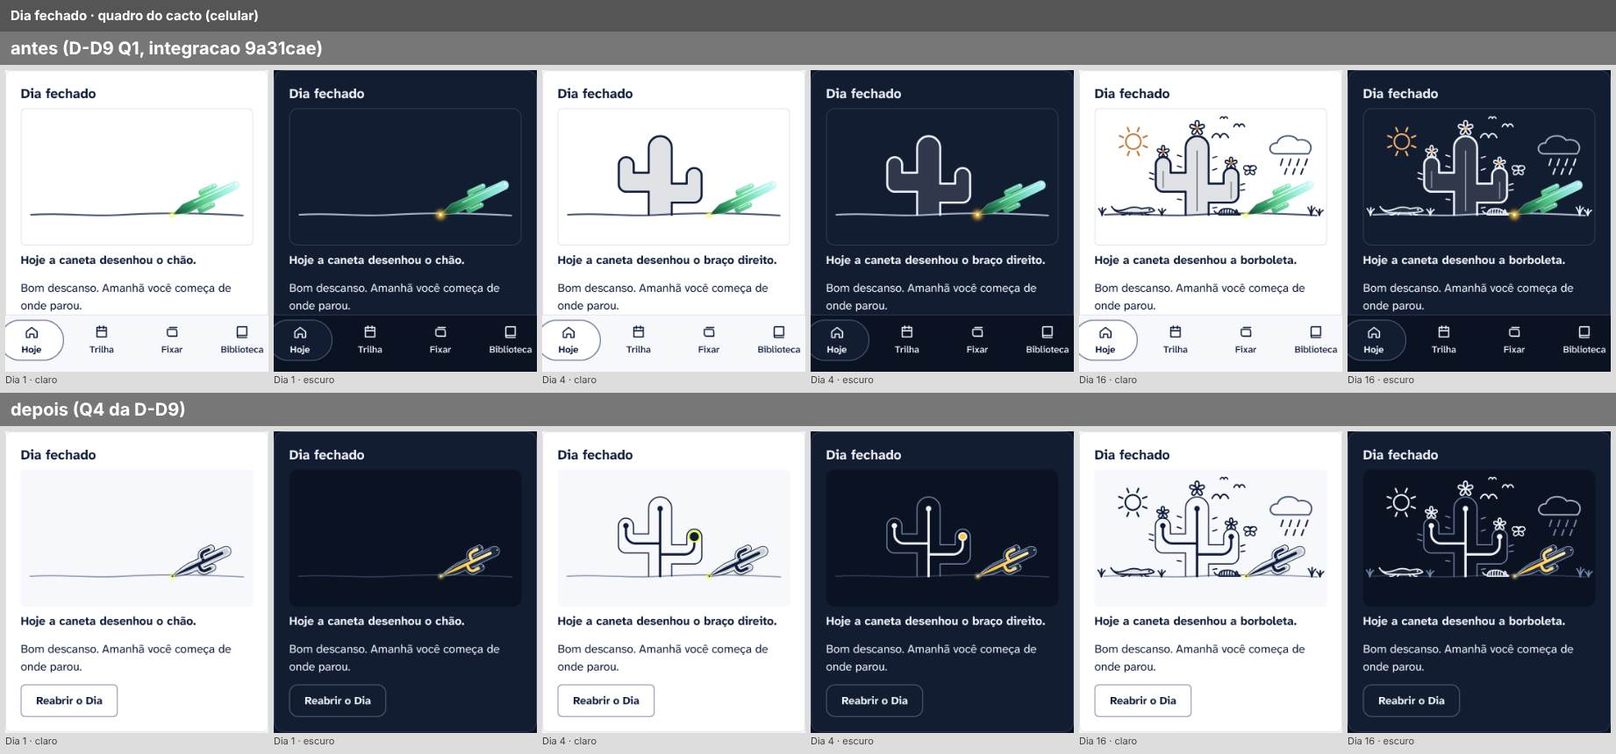
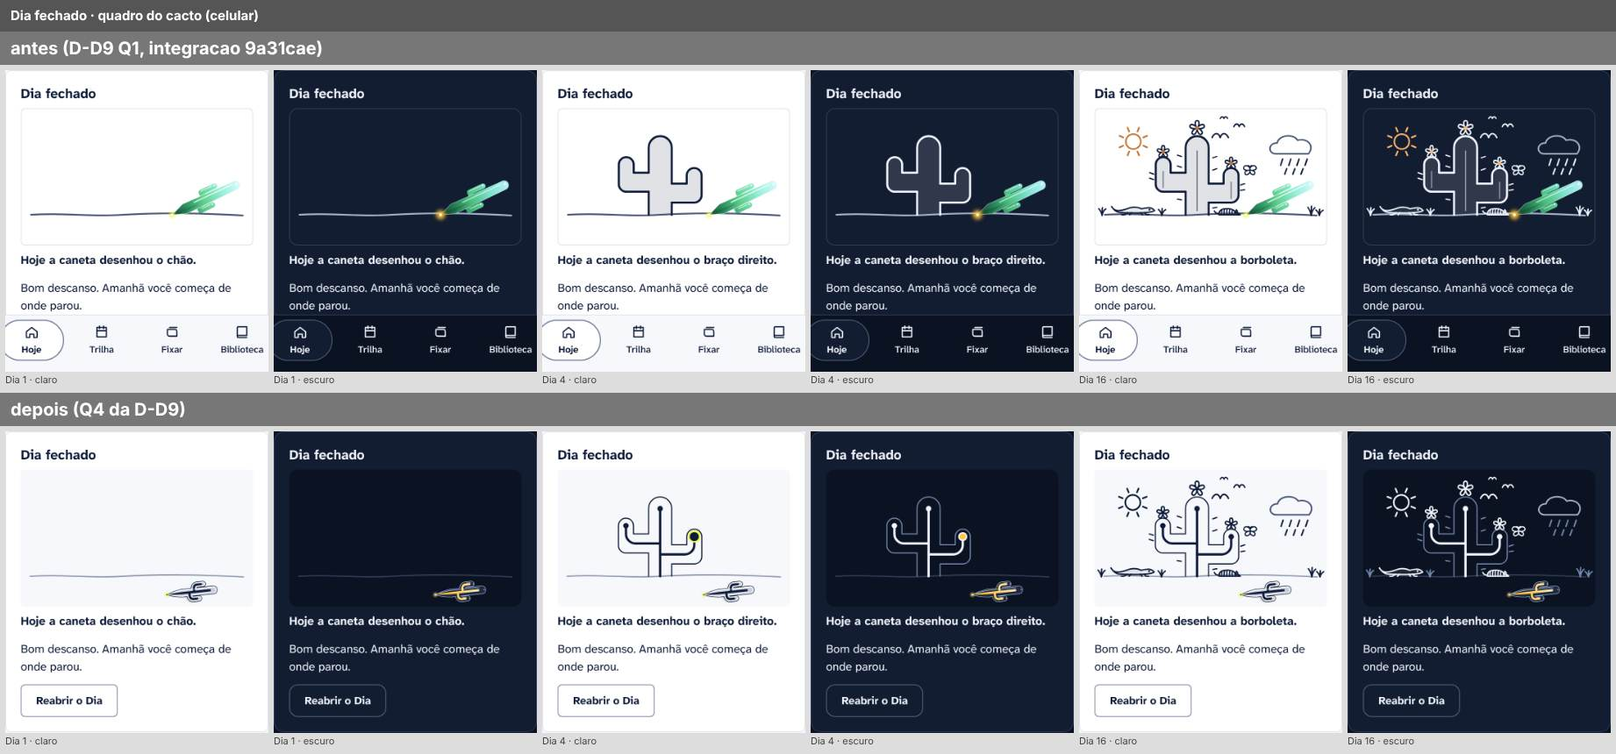
fix(quadro): a caneta largada a 84° sob o chão, como nas pranchas (revisão da Marca, Q4)
O repouso da caneta no quadro do cacto passa a {x: 214, y: 183, escala: 0,30,
84°}, os valores das pranchas Dia fechado; andando sobre o traço ela segue a
65° em 0,38 (ANDANDO). Teste de unidade confere que a caneta largada cabe no
quadro, sob o chão. Docs e a folha do quadro refeitas.

Claude-Session: https://claude.ai/code/session_01ModPpL8ZrTx5hHK6k3WyyX

diff --git a/src/apresentacao/componentes/quadro/desenhar.ts b/src/apresentacao/componentes/quadro/desenhar.ts
@@ -2,7 +2,7 @@
 // caneta sobre o traço de hoje. Imperativo de propósito: o React só dá ao <svg> três grupos vazios
 // (lavis, traços, caneta) e nunca olha dentro deles.
 import { CURVA, esperar, suave, type Movimento } from '../../movimento';
-import { mover, PARTES, REPOUSO, type Fio, type Parte } from './cena';
+import { ANDANDO, mover, PARTES, REPOUSO, type Fio, type Parte } from './cena';
 
 const NS = 'http://www.w3.org/2000/svg';
 
@@ -14,13 +14,20 @@ export interface Camadas {
 
 const um = (n: number) => String(Math.round(n * 10) / 10);
 
-/** O `transform` que põe a ponta da caneta deitada (65°; ponta em (60, 262) no desenho) em (x, y) do quadro. */
-export function posicaoDaCaneta(x: number, y: number): string {
-  return `translate(${um(x)} ${um(y)}) scale(${String(REPOUSO.escala)}) rotate(65) translate(-60 -262)`;
+/**
+ * O `transform` que põe a ponta da caneta (de pé, com a ponta em (60, 262) no desenho) em (x, y) do
+ * quadro, na pose dada: andando sobre o traço, a menos que se peça outra.
+ */
+export function posicaoDaCaneta(
+  x: number,
+  y: number,
+  pose: { escala: number; graus: number } = ANDANDO,
+): string {
+  return `translate(${um(x)} ${um(y)}) scale(${String(pose.escala)}) rotate(${String(pose.graus)}) translate(-60 -262)`;
 }
 
-/** Onde a caneta fica largada: a ponta no fim do chão desenhado, à direita do cacto. */
-export const REPOUSO_DA_CANETA = posicaoDaCaneta(REPOUSO.x, REPOUSO.y);
+/** Onde a caneta fica largada: quase deitada, sob o chão do desenho, à direita do cacto. */
+export const REPOUSO_DA_CANETA = posicaoDaCaneta(REPOUSO.x, REPOUSO.y, REPOUSO);
 
 function criar<K extends 'path' | 'circle'>(
   tag: K,

diff --git a/src/apresentacao/componentes/quadro/cena.test.ts b/src/apresentacao/componentes/quadro/cena.test.ts
@@ -51,12 +51,25 @@ describe('as 16 partes do quadro do cacto', () => {
     }
   });
 
-  it('a caneta é largada dentro do quadro', () => {
+  it('a caneta é largada dentro do quadro, inteira e sob o chão do desenho', () => {
     const [, , largura = 0, altura = 0] = VIEWBOX.split(' ').map(Number);
-    expect(REPOUSO.x).toBeGreaterThan(0);
-    expect(REPOUSO.x).toBeLessThan(largura);
-    expect(REPOUSO.y).toBeGreaterThan(0);
-    expect(REPOUSO.y).toBeLessThan(altura);
+    const { x, y, escala, graus } = REPOUSO;
+    const giro = (graus * Math.PI) / 180;
+    // Os cantos da caixa do vidro, em relação à ponta, com a caneta de pé: 46 para cada lado (os braços)
+    // e 246 de altura (o topo do tronco). Girados e escalados, têm de ficar no quadro.
+    for (const [dx, dy] of [
+      [-46, -246],
+      [46, -246],
+      [-46, 0],
+      [46, 0],
+    ] as const) {
+      const px = x + escala * (dx * Math.cos(giro) - dy * Math.sin(giro));
+      const py = y + escala * (dx * Math.sin(giro) + dy * Math.cos(giro));
+      expect(px).toBeGreaterThan(0);
+      expect(px).toBeLessThan(largura);
+      expect(py).toBeGreaterThan(160); // o chão passa entre 153 e 159
+      expect(py).toBeLessThan(altura);
+    }
   });
 });
 

diff --git a/src/apresentacao/componentes/Caneta.tsx b/src/apresentacao/componentes/Caneta.tsx
@@ -146,9 +146,10 @@ export function CanetaDesenho({ id }: { id: string }) {
  *
  * Desenhada em pé, com a ponta em (60, 262), e girada: 35° encostada (na folha do Agora, no Cartão
  * atual) e 65° deitada (ao fim de "Lido até aqui"). No quadro do cacto, depois de fechar o Dia, a
- * deitada é a da caneta que desenha. Toda de vidro, ponta incluída, com o miolo de tinta à vista (D-D9,
- * Q4). As cores vêm dos tokens `--pen-*`: cada mundo troca o vidro, a tinta e o halo da ponta (lima
- * de dia, âmbar à noite) sem que o componente saiba.
+ * caneta é a deitada: anda a 65° sobre o traço e fica largada quase deitada, a 84° (`quadro/cena.ts`).
+ * Toda de vidro, ponta incluída, com o miolo de tinta à vista (D-D9, Q4). As cores vêm dos tokens
+ * `--pen-*`: cada mundo troca o vidro, a tinta e o halo da ponta (lima de dia, âmbar à noite) sem que
+ * o componente saiba.
  */
 export function Caneta({ pose, className }: { pose: PoseDaCaneta; className?: string }) {
   const id = useId();

diff --git a/src/apresentacao/componentes/quadro/cena.ts b/src/apresentacao/componentes/quadro/cena.ts
@@ -40,8 +40,13 @@ export interface Parte {
 }
 
 export const VIEWBOX = '0 0 340 200';
-/** Onde a caneta fica largada: a ponta no fim do chão desenhado, à direita do cacto. */
-export const REPOUSO = { x: 222, y: 156, escala: 0.38 } as const;
+/**
+ * Onde a caneta fica largada, como nas pranchas "Dia fechado" (D-D9, Q4): quase deitada (84°), pequena
+ * (0,30) e com a ponta em (214, 183), sob o chão do desenho, à direita do cacto.
+ */
+export const REPOUSO = { x: 214, y: 183, escala: 0.3, graus: 84 } as const;
+/** Como a caneta anda sobre o traço: deitada a 65°, em 0,38. Do repouso ao traço ela muda de lugar por salto. */
+export const ANDANDO = { escala: 0.38, graus: 65 } as const;
 
 const r1 = (n: number) => Math.round(n * 10) / 10;
 const rad = (g: number) => (g * Math.PI) / 180;

diff --git a/src/apresentacao/componentes/quadro/desenhar.test.ts b/src/apresentacao/componentes/quadro/desenhar.test.ts
@@ -86,10 +86,14 @@ describe('pintar o quadro parado', () => {
     expect(c.caneta.getAttribute('transform')).toBe(REPOUSO_DA_CANETA);
   });
 
-  it('a ponta da caneta deitada vai para onde se pede', () => {
+  it('a ponta da caneta andando vai para onde se pede', () => {
     expect(posicaoDaCaneta(10.04, 20)).toBe(
       'translate(10 20) scale(0.38) rotate(65) translate(-60 -262)',
     );
+  });
+
+  it('largada, a caneta fica quase deitada e menor do que andando, como nas pranchas', () => {
+    expect(REPOUSO_DA_CANETA).toBe('translate(214 183) scale(0.3) rotate(84) translate(-60 -262)');
   });
 });
 

diff --git a/docs/glossario.md b/docs/glossario.md
@@ -110,7 +110,7 @@ Tipos-base do mesmo arquivo: `DataCivil` (`AAAA-MM-DD` no fuso `America/Sao_Paul
 | A caneta que desenha (D-D8, 19/10/2026; no lugar do cachorro) | **Quadro do cacto:** `QuadroDoCacto` (`dias`, `desenha`; `componentes/quadro/`), com `PARTES` (16 partes de traço), `parteDoDia` e `legendaDaParte` em `cena.ts` e `desenharParte`, `pintarAte` e `pintarParte` em `desenhar.ts`; `ResumoDoDia.diasFechados` (Dias distintos com `fechadoEm`, nunca sequência). **Traço de seleção:** `TracoDeSelecao` (`.traco-sel`), `tracar`, `marcarEscolha` e `escolhaRecente` (`componentes/traco/`). **Passagem do cartão:** `usePassagemDeCartao` (`componentes/passagem.ts`). **Movimento:** `movimentoAgora()` devolve `reduzido`, `calmo` ou `normal`; `CURVA`, `suave`, `curva`, `esperar` (`apresentacao/movimento.ts`); nos testes, `simularMovimento` e `restaurarMovimento` (`src/testes/movimento.ts`). Tokens: `--fio-selecao` (o `--caramelo` saiu na Q4 da D-D9). | `DESIGN.md`, `docs/design/sistema-visual.md`, `docs/design/decisoes-design.md` |
 | Caneta de vidro (D-D9, 19/10/2026, Q4) | **Caneta:** `Caneta` (`pose`: `encostada` a 35° ou `deitada` a 65°), `CanetaDefs` e `CanetaDesenho` (o desenho dentro de outro `<svg>`, com os quatro ids de `useId`: `tinta`, `halo`, `sombra`, `aro`), em `componentes/Caneta.tsx` e `luz.css`; geometria do `pen.mjs` v5 do kit da marca (caixa de 120 × 270, ponta em (60, 262)). **Aro:** o contorno de vidro (`ARO` = 5 unidades), por máscara de luminância (`.caneta-aro`). **Furo de tinta:** o miolo de tinta à vista, em gradiente de `--pen-tinta` a `--pen-tinta2`. **Tokens da caneta** (13, nos três blocos de tema, no lugar de `--caneta-*`): `--pen-rim`, `--pen-vidro`, `--pen-vidro2`, `--pen-vidro-a`, `--pen-tinta`, `--pen-tinta2`, `--pen-brilho`, `--pen-halo`, `--pen-halo-op`, `--pen-esfera`, `--pen-luz`, `--pen-sombra`, `--pen-sombra-op`. **Tokens do quadro** (3): `--quadro-chao` (o chão), `--quadro-aro` (a parede dos tubos do cacto), `--quadro-marca` (a marca de hoje: lima de dia, nenhuma à noite). **Núcleo e ponta:** o cacto do quadro é um tubo oco; `nucleo` (papel de cor de `Fio`, em `--luz`) é o furo de tinta que corre pelo meio e `Fio.ponta` é onde ele termina, num ponto de luz (`.quadro-ponto`); o ponto de hoje (`.quadro-hoje`) é maior, na tinta da caneta, e leva a **marca de hoje** (`.quadro-marca`) atrás. **Espinhos:** a parte `espinhos` do quadro (antes "as nervuras e os espinhos", agora "os espinhos"). **Ícone do app:** `scripts/icones-app.mjs` desenha a silhueta cheia da caneta (`silhueta()`, em tinta, para o favicon de 16 a 48 px) e a caneta inteira (`canetaDeVidro()`, para 180 a 512 px). Saíram: `--caneta-0` a `--caneta-4`, `--caneta-miolo`, `--caneta-borda`, `--caneta-borda-opacidade`, `--caneta-brilho`, `--caneta-halo-dia`, `--caneta-halo-noite` e `--caramelo` (`TOKENS_REMOVIDOS_NA_Q4` em `scripts/contraste.test.ts`) | `DESIGN.md`, `docs/design/sistema-visual.md`, `docs/design/decisoes-design.md` (D-D9), `docs/planos/tinta-e-noite.md` |
 | Rótulos do menu (D-D5, 16/10/2026; em uso desde a P2 da D-D7) | Na tela: **Hoje · Trilha · Fixar · Biblioteca** e "Em seguida". Mapa único: `ROTULO_DA_AREA` em `src/apresentacao/textos.ts` (`hoje`, `plano` = Trilha, `recall` = Fixar, `biblioteca`), usado nas abas, nos títulos, na Conta e nas orientações. Em código e rotas seguem `plano`, `recall` e `Depois`/`LinhaDepois` (nada renomeado) |
-| Hoje do Ponto de luz (P3 da D-D7, 18/10/2026) | **Retrato do Hoje:** `carregarRetrato` e `useRetratoDoHoje` (`src/apresentacao/hoje/retrato.ts`): uma só leitura dos dados para o que a tela mostra de uma vez (`RetratoDoHoje`: `data`, `agora`, `emSeguida`, `parada?`, `pontos`, `diaFechado`); `reunirEntradas` (`proxima-acao.ts`) reúne as entradas do Recall e da Legislação. **Pontos do Dia:** `PontosDoDia` (tela), `estadoDosPontos`, `familiaDaAcao`, `pontosQueAcenderam`, `FamiliaDoDia` (`leitura`, `cartoes`, `frases`) e `EstadoDoPonto` (`feito` = aceso, `atual` = pela metade, `falta` = apagado) em `hoje/pontos.ts`; o que a pessoa viu fica em `localStorage` `arretado.pontos-vistos` (`{ data, estados }`), só para o ponto acender uma vez. **Linha de parada:** `Parada` (tela), `rotuloDaParada` e `quandoDeParar` (`hoje/parada.ts`); o motivo de quem parou de ler não se repete na folha (`motivoDaAcao`, `textos-da-acao.ts`). **Em seguida:** `Depois` (identificador antigo, texto "Em seguida") com `acoesEmSeguida` e `ITENS_EM_SEGUIDA` (2). **Caneta:** `Caneta` (poses `encostada` e `deitada`; a "largada" é a deitada). **Resumo do Dia:** `FecharDia` (aberto "Resumo do Dia"; fechado com o quadro do cacto, ver a linha "A caneta que desenha") | `DESIGN.md`, `docs/design/sistema-visual.md`, `docs/planos/ponto-de-luz.md` |
+| Hoje do Ponto de luz (P3 da D-D7, 18/10/2026) | **Retrato do Hoje:** `carregarRetrato` e `useRetratoDoHoje` (`src/apresentacao/hoje/retrato.ts`): uma só leitura dos dados para o que a tela mostra de uma vez (`RetratoDoHoje`: `data`, `agora`, `emSeguida`, `parada?`, `pontos`, `diaFechado`); `reunirEntradas` (`proxima-acao.ts`) reúne as entradas do Recall e da Legislação. **Pontos do Dia:** `PontosDoDia` (tela), `estadoDosPontos`, `familiaDaAcao`, `pontosQueAcenderam`, `FamiliaDoDia` (`leitura`, `cartoes`, `frases`) e `EstadoDoPonto` (`feito` = aceso, `atual` = pela metade, `falta` = apagado) em `hoje/pontos.ts`; o que a pessoa viu fica em `localStorage` `arretado.pontos-vistos` (`{ data, estados }`), só para o ponto acender uma vez. **Linha de parada:** `Parada` (tela), `rotuloDaParada` e `quandoDeParar` (`hoje/parada.ts`); o motivo de quem parou de ler não se repete na folha (`motivoDaAcao`, `textos-da-acao.ts`). **Em seguida:** `Depois` (identificador antigo, texto "Em seguida") com `acoesEmSeguida` e `ITENS_EM_SEGUIDA` (2). **Caneta:** `Caneta` (poses `encostada` e `deitada`; a "largada" é a caneta a 84° sob o chão do quadro, `REPOUSO` em `quadro/cena.ts`; andando, `ANDANDO`: 65° em 0,38). **Resumo do Dia:** `FecharDia` (aberto "Resumo do Dia"; fechado com o quadro do cacto, ver a linha "A caneta que desenha") | `DESIGN.md`, `docs/design/sistema-visual.md`, `docs/planos/ponto-de-luz.md` |
 | "Para lembrar" e o Hoje em duas colunas (P7b da D-D7, 19/10/2026) | **Campo:** `ParaLembrar` (`src/apresentacao/hoje/ParaLembrar.tsx`; `Campo` guarda o texto e o estado da gravação), uma nota livre sobre o que fazer fora do app (D-D5, resposta 6). Grava em `Preferencias.lembrete` (texto, opcional, ausente é vazio, sem migração) com o teto `LEMBRETE_MAX` (500, em `core/modelo/sistema.ts`); título `.para-lembrar-titulo`, estado `.para-lembrar-estado`, contador `.para-lembrar-contador` (a partir de `LEMBRETE_MAX` menos 50). Não é a Frase correta (essa entra pelo "+") nem tarefa: sem data nem aviso. **Notas da Sessão:** acima do campo, `NotasDasSessoes` lista as cinco notas do Estacionamento mais recentes ainda por resolver, de todas as Sessões (`notasParaLembrar`, `NOTAS_PARA_LEMBRAR`, `EnderecoDeNota`, `chaveDeNota`; `.para-lembrar-notas`), cada uma com uma caixa que chama `resolverNota`; a que a pessoa toca fica à vista, marcada ou não, até ela sair do Hoje. Sem esquema novo. **Colunas:** `.hoje-colunas` (`hoje/estilos-hoje.css`), 7fr · 5fr a partir de 900 px; `Hoje` põe `Agora` à esquerda e `Depois` com `ParaLembrar` à direita | `DESIGN.md`, `docs/design/sistema-visual.md`, `docs/planos/ponto-de-luz.md` |
 | Leitor do Ponto de luz (P4 da D-D7, 19/10/2026) | **Lido (faixa de cal):** `data-lido` na `.linha-leitor` (do começo da norma ao "lido até", pelo `indiceLidoAte`) e `--margem-do-lido` (12 px, só na `.lista-leitor`) e `--margem-do-lido-fim` (a menor entre 12 px e metade do `--gutter`, o lado direito); a marca `.marca-lido-ate` leva `Caneta pose="deitada"` (`.caneta-do-lido`). **Estrutura da norma:** `EstruturaDaNorma` (o painel é `nav.estrutura-da-norma`; `.dispositivo.estrutura` é a linha de cabeçalho no texto, outra coisa) e `estrutura.css`; as contas em `estrutura.ts` (`ehBloco`, `indiceDaEstrutura` → `IndiceDaEstrutura { dentroDe, fim, ultimo, pai, filhos }` (`ultimo` = o último nó que o "lido até" alcança no bloco, sem a rubrica dobrada), `RAIZ` = -1, `temEstrutura`, `vistaDaEstrutura` → `VistaDaEstrutura { acima, itens: ItemDaVista[] { bloco, dentro }, aqui }`, `estadoDoBloco` → `EstadoDoPonto` pelo "lido até"); `.leitor-corpo[data-com-estrutura]` envolve a estrutura e a lista; `useLarguraMinima(px)` (`componentes/largura.ts`; falso sem `matchMedia`) e `LARGURA_DA_ESTRUTURA` (700). **Estrela:** `path.aro` e `path.ponta` no `BotaoDaEstrela`, `--aro-da-estrela`. **Dock:** o grupo "Ferramentas da leitura" (`.dock-do-leitor`, dentro de `.acoes-leitor`), uma pílula sólida de `--superficie`. **Linha de leitura:** `noDaLeitura` (Leitor) e `FRACAO_DA_LEITURA`, o nó que a estrutura da norma segue. **Legenda:** `LegendaDestaques curta` e `NOME_CURTO_DESTAQUE` (`rotulos.ts`) | `DESIGN.md`, `docs/design/sistema-visual.md`, `docs/planos/ponto-de-luz.md` |
 | Demais telas do Ponto de luz (P6 da D-D7, 19/10/2026) | **Ícone:** `Icone` (`componentes/Icone.tsx`; `nome`: `voltar`, `seta`, `abre`, `marca`, `fechar`, `nota`, `info`; SVG de traço único, 24 × 24, `currentColor`, classe `.icone-svg`, `aria-hidden`), no lugar dos glifos de texto `← › ▾ ▸ ✎ ✕ ✓ ⓘ`. **Voltar:** `Voltar` (`componentes/Voltar.tsx`; `para`, `nome?`): link fantasma com a seta, acima do título; `.na-margem` tira o recuo do alvo pela margem (botão-texto sozinho no começo da linha; também em `<summary className="botao botao-texto na-margem">`). **`.discreto`** é o mesmo botão que `.botao-texto` (antes sem sublinhado e com 20 px de recuo); no cabeçalho (Ajuda e o menu dela) segue em texto simples. **Linha de lista:** `LinhaLista` (`para`, `titulo`, `apoio?`, `selo?`), sobre a areia, sem cartão e sem o ladrilho do glifo; também é o menu da Conta (`ITENS_CONTA`). **Acervo:** `.item-acervo-marca` (a marca de 22 px à esquerda do item) e `.aviso-compacto` com o ícone `info`. **Orientações:** `.documento` e `.indice-de-secoes` (`orientacoes/estilos-orientacoes.css`). **Sessão:** `FaixaDaSessao` com o "Encerrar" em `botao botao-texto`; em `Atual.tsx` o vidro é "Abrir a leitura" / "Abrir a revisão" (ou "Voltar à Sessão", com a Sessão pausada), e `SessaoAberta` no Hoje não tem vidro (o do Hoje é o do Agora). **Estrela:** a caixa de `button.estrela` mede 44 × 44 (`inset-inline-start` negativo, `padding-inline-start` que devolve a calha ao conteúdo, `margin-block-start` negativa). **Marcador de nota** (`button.marcador-nota`): o lápis é o `Icone` `nota` em 1 em, sem mudar a altura da linha | `DESIGN.md`, `docs/design/sistema-visual.md`, `docs/planos/ponto-de-luz.md` |

diff --git a/docs/planos/tinta-e-noite.md b/docs/planos/tinta-e-noite.md
@@ -51,5 +51,6 @@ A Q1 só troca valores: as telas ganham a paleta e as letras novas com os compon
 
 - **Q4 feita** (19/10/2026, branch `claude/dd9-q4-caneta-vidro-378qb4`, sobre a `integracao` em `9a31cae`; PR de rascunho para a `integracao`). Entrou: `Caneta.tsx` na geometria do `pen.mjs` v5 do kit (120 × 270, ponta em (60, 262)): tubo de vidro com o furo de tinta à vista, aro por máscara, esfera e halo, três faíscas e sombra; os 13 `--pen-*` por mundo (no lugar de `--caneta-*`) e 3 `--quadro-*` nos três blocos de tema; `--caramelo` removido; o quadro do cacto refeito como o tubo oco das pranchas `m2-dia-fechado` e `m1-dia-fechado` (parede, núcleo de tinta, pontos de luz nas pontas, a de hoje com a marca do mundo), com a lógica de antes; os ícones do app (`scripts/icones-app.mjs` e `public/*`: silhueta em tinta de 16 a 48 px, caneta inteira de 180 a 512 px); testes (`luz.test.tsx`, `quadro/*.test.ts`, `config/plataformas.test.ts`, `scripts/contraste.*`); docs e folhas.
 - **Medido:** `npm run check` verde na árvore enviada; `node scripts/contraste.mjs` verde nos dois temas (o aro, o furo de tinta e a ponta da caneta sobre o fundo e a folha: 8,3:1 a 18,4:1; o aro do cacto: 4,6:1 a 16,8:1; esfera sobre o halo de dia 14,8:1; halo âmbar sobre a noite 13,7:1); `npm run build && npm run tamanho`: JS do app **424,36 kB gzip** (era 423,74; teto 425, **folga de 0,64 kB**; CSS 14,30 → 14,34 kB gzip); E2E completo nos três projetos (celular, tablet, desktop): 603 testes, 492 passados, 111 fora pelas condições de projeto dos próprios testes, 0 falhas (17,6 min). Folhas antes e depois, em [`docs/redesign/tinta-e-noite/q4/`](../redesign/tinta-e-noite/q4/): o quadro do cacto (Dias 1, 4 e 16, claro e escuro), a caneta no Hoje, no Leitor, no Cartão atual e no fim de rodada, a caneta desenhando e os ícones.
-- **Suposições a confirmar** (todas reversíveis): (1) a parede do cacto é `--quadro-aro` (tinta de dia, vidro a 70% à noite), o núcleo é a `--luz` do mundo e o chão é `--quadro-chao` (`--linha` de dia, `--n-borda` à noite), com o painel no `--fundo` e sem borda; (2) o "ponto de hoje" (maior, com a marca lima atrás de dia) só existe na ponta do núcleo, e as partes já feitas levam o ponto liso; (3) o sol e o miolo das flores agora são tinta (o caramelo saiu), e a nuvem e a chuva, tinta 2; (4) a parte "as nervuras e os espinhos" virou "os espinhos", porque os núcleos tomaram o lugar das nervuras (o `id` e a ordem ficam; a legenda diz "Hoje a caneta desenhou os espinhos."); (5) tamanhos da caneta: Hoje 68 × 91 (escala 0,40; a prancha usa 0,34), Cartão atual 58 × 78 (0,34), "Lido até aqui" e fim de rodada 104 × 59 (0,42), repouso no quadro em 0,38: as poses de 35° e 65° e a lógica do quadro (16 partes, regra do Dia N, três modos de movimento) ficam; (6) o aro do vidro é de 5 unidades (1,5 a 2 px nos tamanhos do app); (7) o ícone é a silhueta cheia em tinta de 16 a 48 px (o vidro claro some nesse tamanho) e a caneta de vidro inteira de 180 px em diante; (8) JS do app em 424,36 kB: cabe no teto, mas a folga caiu para 0,64 kB e a escrita do nome (Q6, cerca de 1,6 kB) vai pedir o teto ao Gabriel; (9) a linha da skill `arretado-design-principles` sobre o traço caramelo e a caneta verde segue falsa e fica para o PR da Q8 (caminho protegido, rótulo `aprovado-gabriel`).
+- **Suposições a confirmar** (todas reversíveis): (1) a parede do cacto é `--quadro-aro` (tinta de dia, vidro a 70% à noite), o núcleo é a `--luz` do mundo e o chão é `--quadro-chao` (`--linha` de dia, `--n-borda` à noite), com o painel no `--fundo` e sem borda; (2) o "ponto de hoje" (maior, com a marca lima atrás de dia) só existe na ponta do núcleo, e as partes já feitas levam o ponto liso; (3) o sol e o miolo das flores agora são tinta (o caramelo saiu), e a nuvem e a chuva, tinta 2; (4) a parte "as nervuras e os espinhos" virou "os espinhos", porque os núcleos tomaram o lugar das nervuras (o `id` e a ordem ficam; a legenda diz "Hoje a caneta desenhou os espinhos."); (5) tamanhos da caneta: Hoje 68 × 91 (escala 0,40; a prancha usa 0,34), Cartão atual 58 × 78 (0,34), "Lido até aqui" e fim de rodada 104 × 59 (0,42), repouso no quadro como na prancha (84°, escala 0,30, ponta em (214, 183), sob o chão) e, andando sobre o traço, 65° em 0,38: as poses de 35° e 65° e a lógica do quadro (16 partes, regra do Dia N, três modos de movimento) ficam; (6) o aro do vidro é de 5 unidades (1,5 a 2 px nos tamanhos do app); (7) o ícone é a silhueta cheia em tinta de 16 a 48 px (o vidro claro some nesse tamanho) e a caneta de vidro inteira de 180 px em diante; (8) JS do app em 424,36 kB: cabe no teto, mas a folga caiu para 0,64 kB e a escrita do nome (Q6, cerca de 1,6 kB) vai pedir o teto ao Gabriel; (9) a linha da skill `arretado-design-principles` sobre o traço caramelo e a caneta verde segue falsa e fica para o PR da Q8 (caminho protegido, rótulo `aprovado-gabriel`).
+- **Revisão da Marca (19/10/2026):** de acordo, sem bloqueio (as suposições 1 a 7 sem objeção; a 8, o teto do pacote, é do Gabriel). Pediu um ajuste de fidelidade: o repouso da caneta no quadro a 84°, como nas pranchas "Dia fechado" (`translate(214, 183) rotate(84deg)`, escala 0,30, sob o chão). Feito: `REPOUSO` em `quadro/cena.ts` passa a `{ x: 214, y: 183, escala: 0,30, graus: 84 }` e `ANDANDO` (`65°`, `0,38`) guarda a pose enquanto ela desenha; o teste de `cena.test.ts` confere que a caneta largada cabe no quadro, sob o chão. "Lido até aqui" e fim de rodada seguem a 65°. Em aberto, se a Marca quiser: a prancha anda a 35° e em 0,30; o app anda a 65° e em 0,38.
 - **Para a Q5, a Q6 e a Q8.** A Q5 (Hoje) herda a caneta de 68 × 91 na folha do Agora e a linha do Hoje com `.parada.com-caneta`; a Q6 reaproveita `--pen-*` e o halo na virada em cacto; a Q8 apaga `LinhaDepois.tsx` e dá o `TOKENS_REMOVIDOS` final (os removidos da Q4 estão em `TOKENS_REMOVIDOS_NA_Q4`, em `scripts/contraste.test.ts`, para não colidir com a Q2).

diff --git a/docs/proxima-sessao.md b/docs/proxima-sessao.md
@@ -143,4 +143,4 @@ Tarefa · Q1 fundação da D-D9 (Tinta e noite), com a Q0 (docs) · Branch `clau
 
 ## Passagem de bastão — Q4 da D-D9 (19/10/2026)
 
-Tarefa · Q4 caneta de vidro da D-D9 (Tinta e noite): `Caneta.tsx`, `--pen-*`, quadro do cacto e ícones do app · Branch `claude/dd9-q4-caneta-vidro-378qb4` (sobre a `integracao` em `9a31cae`) · Último commit: o último do branch (SHA no PR) · Alterações não commitadas: nenhuma no fechamento · Feito: a caneta toda de vidro (geometria do `pen.mjs` v5, aro por máscara, 13 `--pen-*` por mundo no lugar de `--caneta-*`), 3 `--quadro-*`, `--caramelo` removido, o quadro do cacto como tubo oco nos dois mundos (as 16 partes, a regra do Dia N e os três modos de movimento ficam), os ícones do app (silhueta de 16 a 48 px, caneta inteira de 180 a 512 px), `scripts/contraste.*` com os pares da caneta e do quadro, `config/plataformas.test.ts`, docs (D-D9 › Q4, `DESIGN.md`, `sistema-visual.md`, glossário, solução de problemas, plano) e as folhas em `docs/redesign/tinta-e-noite/q4/` · Verificado: `npm run check` (lint, tipos, 2316 testes de unidade, formato) na árvore enviada; `node scripts/contraste.mjs` nos dois temas; `npm run build && npm run tamanho` (JS 424,36 kB gzip, teto 425); `npx playwright test` nos três projetos (603 testes: 492 passados, 111 fora pelas condições de projeto dos próprios testes, 0 falhas; 17,6 min); capturas antes e depois do Hoje, do Dia fechado (partes 1, 2, 3, 4 e 16, e a caneta andando), do Leitor, do Cartão atual, do fim de rodada e dos ícones · Não verificado: aparelho real (o ícone na tela inicial do iOS e do Android; o favicon de 16 px numa aba), Safari e Firefox (a máscara de luminância e o desfoque do halo), leitor de tela, zoom de 200% e fonte ampliada nas telas tocadas, `forced-colors`, e a pose deitada contra uma prancha (as pranchas só mostram os 35°) · Falha atual: nenhuma · Próxima ação exata: o Gabriel (ou quem coordena) revisa o PR e confirma as suposições de `planos/tinta-e-noite.md` › "Estado da Q4"; depois do merge, a thread "Marca e identidade visual" libera as ondas seguintes (Q3 ‖ Q6, depois Q5 ‖ Q7); a Q8 reescreve `DESIGN.md` e `sistema-visual.md` e leva a skill em PR próprio · Arquivos a ler: `planos/tinta-e-noite.md` ("Estado da Q4"), `src/apresentacao/componentes/Caneta.tsx`, `src/apresentacao/componentes/quadro/`, `scripts/icones-app.mjs`, `solucao-de-problemas.md` ("Caneta de vidro") · Decisões que não se reabrem: D-D9; a caneta toda de vidro com o furo de tinta à vista; as poses de 35° e 65°; uma caneta por tela, decorativa (`aria-hidden`); o movimento Completo sem perfil e a linha sólida do dock do Leitor; nada de esquema, dado nem regra de domínio (D-D1).
+Tarefa · Q4 caneta de vidro da D-D9 (Tinta e noite): `Caneta.tsx`, `--pen-*`, quadro do cacto e ícones do app · Branch `claude/dd9-q4-caneta-vidro-378qb4` (sobre a `integracao` em `9a31cae`) · Último commit: o último do branch (SHA no PR) · Alterações não commitadas: nenhuma no fechamento · Feito: a caneta toda de vidro (geometria do `pen.mjs` v5, aro por máscara, 13 `--pen-*` por mundo no lugar de `--caneta-*`), 3 `--quadro-*`, `--caramelo` removido, o quadro do cacto como tubo oco nos dois mundos (as 16 partes, a regra do Dia N e os três modos de movimento ficam), a caneta largada a 84° sob o chão como nas pranchas (pedido da Marca na revisão do PR; andando, ela segue a 65° em 0,38), os ícones do app (silhueta de 16 a 48 px, caneta inteira de 180 a 512 px), `scripts/contraste.*` com os pares da caneta e do quadro, `config/plataformas.test.ts`, docs (D-D9 › Q4, `DESIGN.md`, `sistema-visual.md`, glossário, solução de problemas, plano) e as folhas em `docs/redesign/tinta-e-noite/q4/` · Verificado: `npm run check` (lint, tipos, 2317 testes de unidade, formato) na árvore enviada; `node scripts/contraste.mjs` nos dois temas; `npm run build && npm run tamanho` (JS 424,36 kB gzip, teto 425); `npx playwright test` nos três projetos (603 testes: 492 passados, 111 fora pelas condições de projeto dos próprios testes, 0 falhas; 17,6 min); depois do repouso a 84°, `e2e/caneta.spec.ts` e `e2e/acessibilidade.spec.ts` de novo nos três (276 passados, 54 fora pelas condições de projeto, 0 falhas); capturas antes e depois do Hoje, do Dia fechado (partes 1, 2, 3, 4 e 16, e a caneta andando), do Leitor, do Cartão atual, do fim de rodada e dos ícones · Não verificado: aparelho real (o ícone na tela inicial do iOS e do Android; o favicon de 16 px numa aba), Safari e Firefox (a máscara de luminância e o desfoque do halo), leitor de tela, zoom de 200% e fonte ampliada nas telas tocadas, `forced-colors`, e a pose deitada contra uma prancha (as pranchas só mostram os 35°) · Falha atual: nenhuma · Próxima ação exata: o Gabriel (ou quem coordena) revisa o PR e confirma as suposições de `planos/tinta-e-noite.md` › "Estado da Q4"; depois do merge, a thread "Marca e identidade visual" libera as ondas seguintes (Q3 ‖ Q6, depois Q5 ‖ Q7); a Q8 reescreve `DESIGN.md` e `sistema-visual.md` e leva a skill em PR próprio · Arquivos a ler: `planos/tinta-e-noite.md` ("Estado da Q4"), `src/apresentacao/componentes/Caneta.tsx`, `src/apresentacao/componentes/quadro/`, `scripts/icones-app.mjs`, `solucao-de-problemas.md` ("Caneta de vidro") · Decisões que não se reabrem: D-D9; a caneta toda de vidro com o furo de tinta à vista; as poses de 35° e 65°; uma caneta por tela, decorativa (`aria-hidden`); o movimento Completo sem perfil e a linha sólida do dock do Leitor; nada de esquema, dado nem regra de domínio (D-D1).

diff --git a/DESIGN.md b/DESIGN.md
@@ -286,9 +286,9 @@ Coluna de 70 ch em Literata sobre a areia. O trecho lido, do começo da norma at
 
 ### A caneta (signature)
 
-Um tubo de vidro com tronco e dois braços que termina num cone do mesmo vidro (a ponta também é de vidro), com o furo de tinta à vista, um aro de 1,5 a 2 px, uma esfera de luz na ponta com o halo do mundo (lima de dia, âmbar à noite), três faíscas e uma sombra suave. De dia o vidro é claro e a tinta é a do papel; à noite o vidro é um traço a 14% e o furo vai do creme ao âmbar. É o único objeto com volume e o único gradiente do app. Três poses fixas: encostada a 35° na folha do Agora (Hoje; no Fixar, no Cartão atual), deitada a 65° ao fim de "Lido até aqui" (Leitor), largada no canto do quadro do cacto (Resumo do Dia); em repouso, deitada, no fim de rodada do Fixar. Muda de lugar por salto, nunca gira nem desliza; no quadro, ela anda sobre o traço que desenha e volta a ser largada. Nunca botão, painel, fundo de texto, nem mais de uma por tela. Decorativa (`aria-hidden`). O ícone do app (Q4) é a caneta a 35° sobre o papel, em cores fixas do dia: no favicon (16 a 48 px) a silhueta cheia, em tinta, com a lima atrás da ponta (o vidro claro some nesse tamanho); do 180 ao 512 px, a caneta inteira com o furo de tinta (a "maskable" e a do iOS levam a caneta dentro do círculo de 40%).
+Um tubo de vidro com tronco e dois braços que termina num cone do mesmo vidro (a ponta também é de vidro), com o furo de tinta à vista, um aro de 1,5 a 2 px, uma esfera de luz na ponta com o halo do mundo (lima de dia, âmbar à noite), três faíscas e uma sombra suave. De dia o vidro é claro e a tinta é a do papel; à noite o vidro é um traço a 14% e o furo vai do creme ao âmbar. É o único objeto com volume e o único gradiente do app. Três poses fixas: encostada a 35° na folha do Agora (Hoje; no Fixar, no Cartão atual), deitada a 65° ao fim de "Lido até aqui" (Leitor), largada sob o chão do quadro do cacto, quase deitada a 84° (Resumo do Dia); em repouso, deitada, no fim de rodada do Fixar. Muda de lugar por salto, nunca gira nem desliza; no quadro, ela anda sobre o traço que desenha e volta a ser largada. Nunca botão, painel, fundo de texto, nem mais de uma por tela. Decorativa (`aria-hidden`). O ícone do app (Q4) é a caneta a 35° sobre o papel, em cores fixas do dia: no favicon (16 a 48 px) a silhueta cheia, em tinta, com a lima atrás da ponta (o vidro claro some nesse tamanho); do 180 ao 512 px, a caneta inteira com o furo de tinta (a "maskable" e a do iOS levam a caneta dentro do círculo de 40%).
 
-No código (`componentes/Caneta.tsx`): uma caneta de pé desenhada com a ponta em (60, 262), numa caixa de 120 × 270 (a geometria do `pen.mjs` v5 do kit da marca), e girada em torno dela, 35° encostada e 65° deitada. As cores vêm dos 13 tokens `--pen-*` (o tema os troca, e o componente não leva cor literal). O aro de vidro vem de uma máscara de luminância (branco do tamanho do vidro mais 5 unidades, preto por cima). Cada instância leva quatro ids próprios (`useId`): o furo de tinta, o halo, a sombra e o aro. A "largada" é a deitada posta no canto do quadro do cacto (`QuadroDoCacto` a move dentro do próprio `<svg>` com `CanetaDefs` e `CanetaDesenho`). No Hoje, a caneta passa por salto da folha do Agora (Dia aberto) para o Resumo do Dia (Dia fechado).
+No código (`componentes/Caneta.tsx`): uma caneta de pé desenhada com a ponta em (60, 262), numa caixa de 120 × 270 (a geometria do `pen.mjs` v5 do kit da marca), e girada em torno dela, 35° encostada e 65° deitada. As cores vêm dos 13 tokens `--pen-*` (o tema os troca, e o componente não leva cor literal). O aro de vidro vem de uma máscara de luminância (branco do tamanho do vidro mais 5 unidades, preto por cima). Cada instância leva quatro ids próprios (`useId`): o furo de tinta, o halo, a sombra e o aro. A "largada" é a caneta posta sob o chão do quadro do cacto a 84°, em escala 0,30 e com a ponta em (214, 183) (`REPOUSO`, em `quadro/cena.ts`); andando sobre o traço ela fica a 65° em escala 0,38 (`ANDANDO`). `QuadroDoCacto` a move dentro do próprio `<svg>` com `CanetaDefs` e `CanetaDesenho`. No Hoje, a caneta passa por salto da folha do Agora (Dia aberto) para o Resumo do Dia (Dia fechado).
 
 ### O quadro do cacto (A caneta que desenha)
 

diff --git a/docs/design/decisoes-design.md b/docs/design/decisoes-design.md
@@ -280,4 +280,4 @@ Fecha as divergências achadas ao documentar o sistema (`DESIGN.md` e `PRODUCT.m
 
 **Construção em fases**, cada uma num PR de rascunho para a `integracao` ([`../planos/tinta-e-noite.md`](../planos/tinta-e-noite.md)): Q1 fundação (docs, tokens, fontes, contraste, barra e manifest) → Q2 casca e Q4 caneta de vidro → Q3 controles e folha e Q6 escrita do nome → Q5 Hoje e Q7 varredura das telas sem prancha → Q8 fecho. `DESIGN.md` e `sistema-visual.md` descrevem a D-D7 até a Q8 os reescrever (levam uma faixa de "superado" desde a Q1); até lá o contrato manda. A seção "Visual vigente" da skill `arretado-design-principles` (caminho protegido) fica falsa desde a Q1 e só é reescrita na Q8, em PR próprio com o rótulo `aprovado-gabriel`. Os registros D-D2 a D-D8 acima ficam como histórico.
 
-**Q4 — a caneta de vidro e o quadro nos dois mundos (19/10/2026).** `Caneta.tsx` passa à geometria do `pen.mjs` v5 do kit da marca (caixa de 120 × 270, ponta em (60, 262)): um tubo de vidro com o furo de tinta à vista, aro de 5 unidades (1,5 a 2 px nos tamanhos do app), esfera e halo na ponta, três faíscas e sombra; o vidro é claro de dia e a 14% à noite, onde o furo vai do creme ao âmbar. Os 13 `--pen-*` trocam por mundo, no lugar de `--caneta-*`, e o `--caramelo` saiu. As duas poses ficam (35° e 65°); os tamanhos mudam (Hoje 68 × 91, Cartão atual 58 × 78, "Lido até aqui" e fim de rodada 104 × 59, quadro em escala 0,38). O quadro do cacto vira o tubo oco das pranchas `m2-dia-fechado` e `m1-dia-fechado` (parede fina, núcleo de tinta, ponto de luz nas pontas e, na de hoje, a tinta da caneta com a marca do mundo atrás), num painel do chão do mundo e sem borda; a lógica não muda (16 partes, regra do Dia N, três modos de movimento). Tokens novos: `--quadro-chao`, `--quadro-aro` e `--quadro-marca`. A parte "as nervuras e os espinhos" virou "os espinhos", porque os núcleos tomaram o lugar das nervuras (o `id` e a ordem ficam). O ícone do app é a caneta de vidro sobre o papel: nos tamanhos de favicon (16 a 48 px) a silhueta cheia, porque o vidro claro some; do 180 ao 512 px, a caneta inteira. Fica para a Q8 a linha da skill `arretado-design-principles` sobre o traço caramelo e a caneta de vidro verde (caminho protegido, PR próprio com o rótulo `aprovado-gabriel`).
+**Q4 — a caneta de vidro e o quadro nos dois mundos (19/10/2026).** `Caneta.tsx` passa à geometria do `pen.mjs` v5 do kit da marca (caixa de 120 × 270, ponta em (60, 262)): um tubo de vidro com o furo de tinta à vista, aro de 5 unidades (1,5 a 2 px nos tamanhos do app), esfera e halo na ponta, três faíscas e sombra; o vidro é claro de dia e a 14% à noite, onde o furo vai do creme ao âmbar. Os 13 `--pen-*` trocam por mundo, no lugar de `--caneta-*`, e o `--caramelo` saiu. As duas poses ficam (35° e 65°); o repouso da caneta no quadro segue a prancha (84°, escala 0,30, ponta em (214, 183), sob o chão) e, andando sobre o traço, ela fica a 65° em escala 0,38; os tamanhos mudam (Hoje 68 × 91, Cartão atual 58 × 78, "Lido até aqui" e fim de rodada 104 × 59). O quadro do cacto vira o tubo oco das pranchas `m2-dia-fechado` e `m1-dia-fechado` (parede fina, núcleo de tinta, ponto de luz nas pontas e, na de hoje, a tinta da caneta com a marca do mundo atrás), num painel do chão do mundo e sem borda; a lógica não muda (16 partes, regra do Dia N, três modos de movimento). Tokens novos: `--quadro-chao`, `--quadro-aro` e `--quadro-marca`. A parte "as nervuras e os espinhos" virou "os espinhos", porque os núcleos tomaram o lugar das nervuras (o `id` e a ordem ficam). O ícone do app é a caneta de vidro sobre o papel: nos tamanhos de favicon (16 a 48 px) a silhueta cheia, porque o vidro claro some; do 180 ao 512 px, a caneta inteira. Fica para a Q8 a linha da skill `arretado-design-principles` sobre o traço caramelo e a caneta de vidro verde (caminho protegido, PR próprio com o rótulo `aprovado-gabriel`).

diff --git a/docs/design/sistema-visual.md b/docs/design/sistema-visual.md
@@ -167,7 +167,7 @@ Itálico nunca no trecho da lei. Em celular, campos com no mínimo 16 px (o iOS 
 
 | Peça | Especificação |
 |---|---|
-| **Caneta** | Tubo de vidro de tronco e dois braços que termina num cone do mesmo vidro (a ponta também é de vidro), com o furo de tinta à vista (do tronco à ponta, gradiente `--pen-tinta` → `--pen-tinta2`), aro de 1,5 a 2 px, brilho, esfera de luz na ponta com halo (lima de dia, âmbar à noite), três faíscas e sombra suave (só de dia). Geometria do `pen.mjs` v5 do kit da marca (caixa de 120 × 270, ponta em (60, 262)). SVG inline (`Caneta`, `CanetaDefs` e `CanetaDesenho`): uma caneta de pé girada em torno da ponta; o aro é uma máscara de luminância (branco = vidro mais 5 unidades, preto = o vidro exato); quatro ids por instância (`useId`: tinta, halo, sombra, aro); cores só nos 13 tokens `--pen-*`, nenhuma literal no componente. Elemento só de preenchimento leva `stroke: none` (o `<svg>` do quadro passa traço por herança). Poses: encostada a 35° (viewBox 170 × 228; Hoje 68 × 91, Cartão atual 58 × 78), deitada a 65° (viewBox 246 × 140; Lido até aqui e, em repouso, o fim de rodada do Fixar, 104 × 59). No quadro do cacto (Resumo do Dia) a mesma caneta deitada está largada no canto, em escala 0,38, e anda sobre o traço de hoje. Decorativa (`aria-hidden`); uma por tela. |
+| **Caneta** | Tubo de vidro de tronco e dois braços que termina num cone do mesmo vidro (a ponta também é de vidro), com o furo de tinta à vista (do tronco à ponta, gradiente `--pen-tinta` → `--pen-tinta2`), aro de 1,5 a 2 px, brilho, esfera de luz na ponta com halo (lima de dia, âmbar à noite), três faíscas e sombra suave (só de dia). Geometria do `pen.mjs` v5 do kit da marca (caixa de 120 × 270, ponta em (60, 262)). SVG inline (`Caneta`, `CanetaDefs` e `CanetaDesenho`): uma caneta de pé girada em torno da ponta; o aro é uma máscara de luminância (branco = vidro mais 5 unidades, preto = o vidro exato); quatro ids por instância (`useId`: tinta, halo, sombra, aro); cores só nos 13 tokens `--pen-*`, nenhuma literal no componente. Elemento só de preenchimento leva `stroke: none` (o `<svg>` do quadro passa traço por herança). Poses: encostada a 35° (viewBox 170 × 228; Hoje 68 × 91, Cartão atual 58 × 78), deitada a 65° (viewBox 246 × 140; Lido até aqui e, em repouso, o fim de rodada do Fixar, 104 × 59). No quadro do cacto (Resumo do Dia) a mesma caneta está largada sob o chão do desenho, quase deitada (84°, escala 0,30, ponta em (214, 183), como na prancha), e anda sobre o traço de hoje a 65°, em escala 0,38. Decorativa (`aria-hidden`); uma por tela. |
 | **Quadro do cacto** | 16 partes de traço (`componentes/quadro/cena.ts`, viewBox 340 × 200), uma por Dia fechado: a parte de número ((N − 1) mod 16) + 1. O cacto é um tubo oco: a parede fina (`--quadro-aro`, papel de cor `vidro`, com a chuva e o capim), o núcleo de tinta que corre pelo meio (`nucleo`, `--luz`, 3,4) e um ponto de luz (r 4) onde o núcleo termina (`Fio.ponta`); o de hoje (r 5,5) leva a tinta da caneta com contorno na luz e a marca atrás (`--quadro-marca`: lima de dia, nada à noite). O sol e as flores são tinta, a nuvem e a chuva, tinta 2 e o chão, `--quadro-chao`. O painel é o `--fundo` do mundo, com o raio do botão e sem borda. Cada fio é um `<path>` com `stroke-dasharray`/`stroke-dashoffset` por subtraço (`M`), de 520 a 1100 ms conforme o comprimento, com a curva senoidal `suave`; a caneta anda no ponto (`getPointAtLength`) e volta ao repouso; a aguada (`lavis`) aparece na segunda metade do fio e o miolo das flores e a ponta do núcleo brotam em 180 ms. Só no instante em que o Dia é fechado (aberto já fechado, o quadro aparece pronto); com `prefers-reduced-motion`, pronto. Cena `aria-hidden`; legenda `role=status` dita ao terminar. |
 
 ### Vidro é objeto, nunca superfície
